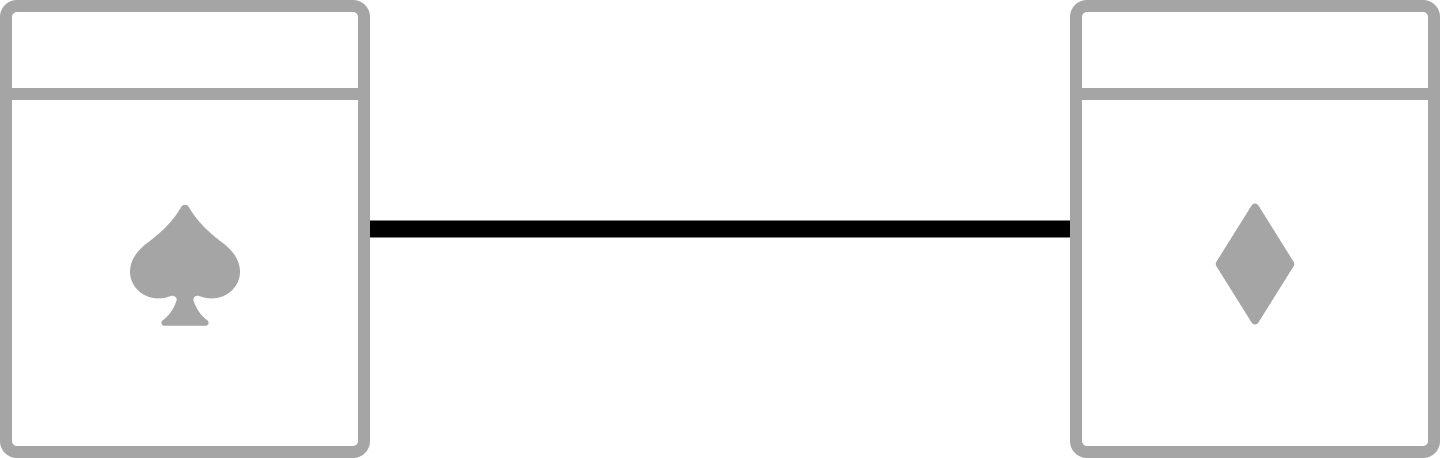
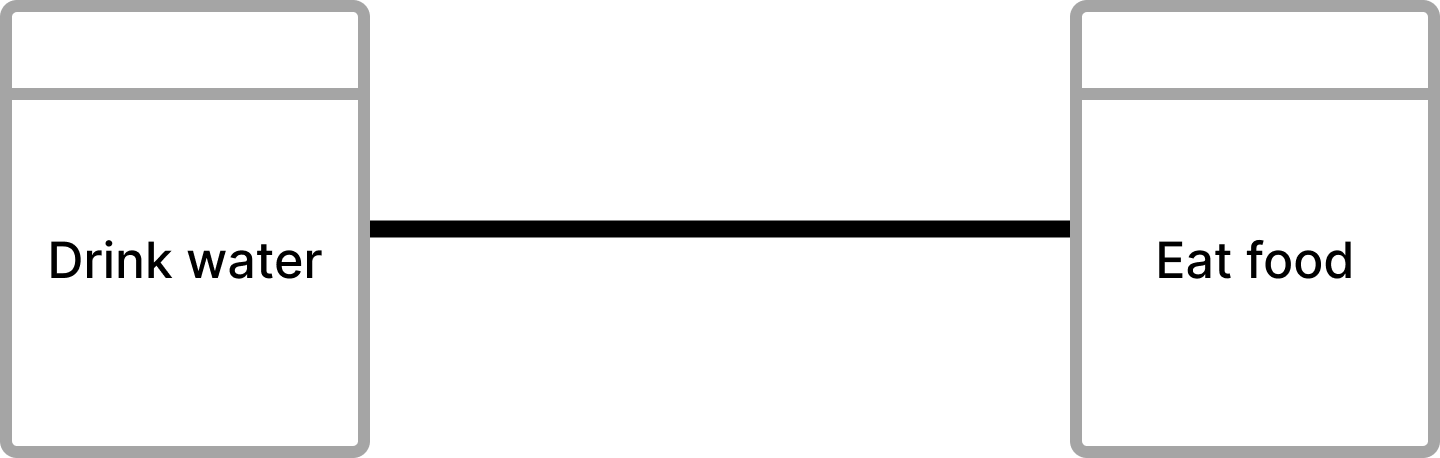
Update

Changed region(s): [[0.0312, 0.4585, 0.2188, 0.7336], [0.7812, 0.4585, 0.9375, 0.7031]]

diff --git a/data.js b/data.js
@@ -1,33 +1,67 @@
+// export var images = {
+// 	1: {
+// 		"image": "1_Response.png"
+// 	},
+// 	2: {
+// 		"image": "1_Condition.png"
+// 	},
+// 	3: {
+// 		"image": "1_Milestone.png"
+// 	},
+// 	4: {
+// 		"image": "1_Exclude.png"
+// 	},
+// 	5: {
+// 		"image": "1_Include.png"
+// 	},
+// 	6: {
+// 		"image": "2_Response.png"
+// 	},
+// 	7: {
+// 		"image": "2_Condition.png"
+// 	},
+// 	8: {
+// 		"image": "2_Milestone.png"
+// 	},
+// 	9: {
+// 		"image": "2_Exclude.png"
+// 	},
+// 	10: {
+// 		"image": "2_Include.png"
+// 	},
+
+// }
+
 export var images = {
 	1: {
-		"image": "1_Response.png"
+		"image": "test_include.png"
 	},
 	2: {
-		"image": "1_Condition.png"
+		"image": "test_exclude.png"
 	},
 	3: {
-		"image": "1_Milestone.png"
+		"image": "test_condition.png"
 	},
 	4: {
-		"image": "1_Exclude.png"
+		"image": "test_milestone.png"
 	},
 	5: {
-		"image": "1_Include.png"
+		"image": "test_response.png"
 	},
 	6: {
-		"image": "2_Response.png"
+		"image": "test_include.png"
 	},
 	7: {
-		"image": "2_Condition.png"
+		"image": "test_exclude.png"
 	},
 	8: {
-		"image": "2_Milestone.png"
+		"image": "test_condition.png"
 	},
 	9: {
-		"image": "2_Exclude.png"
+		"image": "test_milestone.png"
 	},
 	10: {
-		"image": "2_Include.png"
+		"image": "test_response.png"
 	},
 
 }
@@ -36,11 +70,11 @@ var imagesIndex = Object.keys(images);
 export var shuffledImages = imagesIndex.sort((a, b) => 0.5 - Math.random());
 
 export var answers = {
-	1: "At first, you decide to cook a dish without using oil; i.e., you decide to <b><u>exclude</u></b> using oil.",
-	2: "You <b><u>need</u></b> to prepare the ingredients <b><u>before</u></b> cooking the dish.",
-	3: "Once you have prepared the ingredients, cooking the dish becomes <b><u>a goal </u></b>that you <b><u>must eventually</u></b> do.",
-	4: "The pan you are using is an old pan, and you decide to use oil after all; i.e., you decide to <b><u>include</u></b> using oil.",
-	5: "If another person is using the stove then that is <b><u>a goal</u></b> that <b><u>must</u></b> be done before you can start cooking.",
+	1: "If you \"Draw card\" then you <b><u>cannot</u></b> \"Eat cake\".",
+	2: "In order to \"Eat cake\" you <b><u>need</u></b> to \"Draw card\" at least once",
+	3: "If you \"Draw card\" then you are able to \"Eat cake\"; i.e., if you were not able to \"Eat cake\" before and \"Draw card\", then you <b><u>can</u></b> \"Eat cake\" now.",
+	4: "If you \"Draw card\" you <b><u>need</u></b> to at some point \"Eat cake\"; i.e., \"Eat cake\" is now <b><u>required</u></b>",
+	5: "You can \"Eat cake\" <b><u>unless</u></b> \"Draw card\" is required. If \"Draw card\" is required, then in order to \"Eat cake\" you need to \"Draw card\".",
 	6: "No description fits"
 }
 
@@ -62,38 +96,44 @@ export var pages = {
 	// },
 	"dcr": {
 		"title": "Dynamic Condition Response (DCR)",
-		"text": "There are two types of nodes in DCR grpahs:<ul><li>An <b><i>event</i></b>, which is visualized by a rectangle, represents something that can happen.</li><li>A <b><i>relation</i></b> represents a relationship between two events. The relations in DCR are like constraints that you can apply to the events. </li></ul> In the image below, the <b><i>events</i></b> are indicated as rectangles with the symbols of a spade and a diamond. The symbols do not have any meaning, but signify that the two events are different from each other. The <b><i>relation</i></b> is indicated by the continuous connection between the two events. ",
-		"text_image": "Following is an example of the use of DCR relations.",
+		"text": "There are two types of nodes in DCR grpahs:<ul><li>An <b><i>event</i></b>, which is visualized by a rectangle, represents something that can happen.</li><li>A <b><i>relation</i></b> represents a relationship between two events. The relations in DCR are like constraints that you can apply to the events. </li></ul> In the image example below, the <b><i>events</i></b> are indicated as rectangles, where one event represents \"Drink water\" and the other event represents \"Eat food\". The <b><i>relation</i></b> is indicated by the continuous connection between the two events.",
+
+		"text_pre_markings": "An event can be in a state. The default state of an event is <i>not executed</i>, <i>not pending</i>, and <i>included</i> (see figure below). ",
+
+		"text_markings": "<b>Executed event</b>: An executed event is marked with a green check mark and indicates that the event has happened.<br> E.g. If the event is \"Drink water\", then by adding the green check mark, one has indicated that \"Drink water\" has happened. <br><br> <b>Excluded event</b>: An excluded event is marked with a dashed outline and indicates that the event cannot be executed.<br>E.g. If the event is \"Drink water\", then by having the dashed outline, one has indicated that \"Drink water\" cannot happen.<br><br> <b>Pending event</b>: A pending event is marked with a blue exclamation mark and indicates that the event must eventually happen and is therefore now required.<br>E.g. If the event is \"Drink water\", then by adding the blue exclamation mark, one has indicated that \"Drink water\" must eventually happen.", 
+
+		"text_next": "Following is an example of the use of DCR relations.",
 		"button": "CONTINUE"
 	},
 	"example": {
 		"title": "EXAMPLE",
-		"text": "Imagine you are getting ready to cook dinner. These are the 5 constraints you are applying.<br><br><br>" ,
+		"text": "In the following you will be presented 5 descriptions. The descriptions explains a type of relation between two events: \"Draw card\" and \"Eat cake\".<br><br><br>" ,
 
-		"text_exclude": "<hr>At first, you decide to cook a dish without using oil; i.e., you decide to <b><u>exclude</u></b> using oil.",
+		"text_exclude": "<hr>If you \"Draw card\" then you <b><u>cannot</u></b> \"Eat cake\".",
 		
-		"text_condition": "<hr>Before cooking the dish, you need to prepare the ingredients; i.e., you <b><u>need</u></b> to prepare the ingredients <b><u>before</u></b> cooking the dish.",
+		"text_condition": "<hr>In order to \"Eat cake\" you <b><u>need</u></b> to \"Draw card\" at least once",
 
-		"text_response": "<hr>Once you have prepared the ingredients, cooking the dish becomes <b><u>a goal </u></b>that you <b><u>must eventually</u></b> do.",
+		"text_response": "<hr>If you \"Draw card\" you <b><u>need</u></b> to at some point \"Eat cake\"; i.e., \"Eat cake\" is now <b><u>required</u></b>",
 
-		"text_include": "<hr>The pan you are using is an old pan, and you decide to use oil after all; i.e., you decide to <b><u>include</u></b> using oil.",
+		"text_include": "<hr>If you \"Draw card\" then you are able to \"Eat cake\"; i.e., if you were not able to \"Eat cake\" before and \"Draw card\", then you <b><u>can</u></b> \"Eat cake\" now.",
 
-		"text_milestone": "<hr>For cooking the dish, you can always use the stove unless someone else is using it, then you must wait until the they are done using the it; i.e., if another person is using the stove then that is <b><u>a goal</u></b> that <b><u>must</u></b> be done before you can start cooking.<hr>",
+		"text_milestone": "<hr>You can \"Eat cake\" <b><u>unless</u></b> \"Draw card\" is required. If \"Draw card\" is required, then in order to \"Eat cake\" you need to \"Draw card\".<hr>",
 		"text_next": "<br><br> Following is the instructions for the survey.",
 		"button": "CONTINUE"
 	},
 	"instructions":{
 		"title": "INSTRUCTIONS",
-		"text":"In a moment, you will be shown an image of a relation between two events (like the image above). Below the image, you will be shown 6 different descriptions similar to the ones in the example. Your task is to choose the description that you consider most accurately describes the relation shown in the image. If you consider that no description fits, then choose \"No description fits\". You may choose one description for multiple relations.<br><br>The descriptions are expressed in terms of concrete situations, but try to think of them in a more general sense.",
+		// "text":"In a moment, you will be shown an image of a relation between two events (like the image above). Below the image, you will be shown 6 different descriptions similar to the ones in the example. Your task is to choose the description that you consider most accurately describes the relation shown in the image. If you consider that no description fits, then choose \"No description fits\". You may choose one description for multiple relations.<br><br>The descriptions are expressed in terms of concrete situations, but try to think of them in a more general sense.",
+		"text":"In a moment, you will be shown an image of one type of relation an event and three other events. The three other events may have markings (like the image above).  Below the image, you will be shown 6 different descriptions similar to the ones in the example. Each image will have a highlighted event (red) which is the event that is refered to in the descriptions. Your task is to choose the description that you consider most accurately describes the relation shown in the image. If you consider that no description fits, then choose \"No description fits\". You may choose one description for multiple relations.<br><br>The descriptions are expressed in terms of concrete situations, but try to think of them in a more general sense.",
 		"button": "CONTINUE"
 	},
 	"instructions2":{
-		"text":"<b>Please, interact with other people during this survey. <br><br> Try to answer each question independently of the previous question.</b>",
+		"text":"<b>Please, do not interact with other people during this survey. <br><br> Try to answer each question independently of the previous question.</b>",
 		"button": "START"
 	},
 	"questions":{
-		"text_task":"Imagine you are getting ready to cook dinner.<br>Which of the following descriptions most accurately describes the relation in the image?",
-		"tooltip":"\"Events\": Something that can happen (The two rounded squares). <br> <br> \"Relation\": The relationship and connection between the two events.",
+		"text_task":"Which of the following descriptions most immediately and accurately describes the symbol for the relation in the image?<br><i>(\"Draw card\" is a general term used to generalize one of the three leftmost events)</i>",
+		"tooltip":"\"Events\": Something that can happen (The two rectangles). <br> <br> \"Relation\": The relationship and connection between the two events.",
 		"button": "Next"
 	},
 	"demographics":{

diff --git a/introduction.js b/introduction.js
@@ -42,8 +42,20 @@ export function displayDCR(){
     img.classList.add("question_image_example");
     container.appendChild(img);
 
-    let paraImage = general.createParagraph(data.pages.dcr.text_image);
-    container.appendChild(paraImage);
+    // Markings
+    let paraPreMarkings = general.createParagraph(data.pages.dcr.text_pre_markings);
+    container.appendChild(paraPreMarkings);
+
+    let imgMarkings = document.createElement("img");
+    imgMarkings.src = "images/Markings.png";
+    imgMarkings.classList.add("question_image_example");
+    container.appendChild(imgMarkings);
+
+    let paraMarkings = general.createParagraph(data.pages.dcr.text_markings);
+    container.appendChild(paraMarkings);
+
+    let paraNext = general.createParagraph(data.pages.dcr.text_next);
+    container.appendChild(paraNext);
 
     let btn = general.createButton(data.pages.dcr.button, function() {
         displayInstructionsExample();
@@ -58,56 +70,27 @@ export function displayInstructionsExample(){
 
     let para = general.createParagraph(data.pages.example.text);
     container.appendChild(para);
+
+    //Image
+    let img = document.createElement("img");
+    img.src = "images/example2.png";
+    img.classList.add("question_image_example");
+    container.appendChild(img);
+
     let para_exclude = general.createParagraph(data.pages.example.text_exclude);
     container.appendChild(para_exclude);
-    // //Image
-    // let img_exclude = document.createElement("img");
-    // img_exclude.src = "images/Instructions/exclude.png";
-    // img_exclude.classList.add("instructions_image");
-    // container.appendChild(img_exclude);
 
     let para_condition = general.createParagraph(data.pages.example.text_condition);
     container.appendChild(para_condition);
-    // //Image
-    // let img_condition = document.createElement("img");
-    // img_condition.src = "images/Instructions/condition.png";
-    // img_condition.classList.add("instructions_image");
-    // container.appendChild(img_condition);
-
-
-    let para_response = general.createParagraph(data.pages.example.text_response);
-    container.appendChild(para_response);
-    // //Image
-    // let img_response = document.createElement("img");
-    // img_response.src = "images/Instructions/response.png";
-    // img_response.classList.add("instructions_image");
-    // container.appendChild(img_response);
 
     let para_include = general.createParagraph(data.pages.example.text_include);
     container.appendChild(para_include);
-    // //Image
-    // let img_include = document.createElement("img");
-    // img_include.src = "images/Instructions/include.png";
-    // img_include.classList.add("instructions_image");
-    // container.appendChild(img_include);
+
+    let para_response = general.createParagraph(data.pages.example.text_response);
+    container.appendChild(para_response);
 
     let para_milestone = general.createParagraph(data.pages.example.text_milestone);
     container.appendChild(para_milestone);
-    
-    // //Image
-    // let img_milestone = document.createElement("img");
-    // img_milestone.src = "images/Instructions/milestone.png";
-    // img_milestone.classList.add("instructions_image");
-    // container.appendChild(img_milestone);
-
-    // //Image
-    // let img = document.createElement("img");
-    // img.src = "images/example.png";
-    // img.classList.add("question_image_example");
-    // container.appendChild(img);
-
-    // let paraEvent = general.createParagraph(data.pages.instructions.text_events);
-    // container.appendChild(paraEvent);
 
     let para_next = general.createParagraph(data.pages.example.text_next);
     container.appendChild(para_next);
@@ -125,7 +108,7 @@ export function displayInstructions(){
 
     //Image
     let img = document.createElement("img");
-    img.src = "images/example.png";
+    img.src = "images/example3.png";
     img.classList.add("question_image_example");
     container.appendChild(img);
 

diff --git a/questions.js b/questions.js
@@ -80,6 +80,12 @@ export function displayQuestion(index){
     task_container.appendChild(tooltip_badge);
     container.appendChild(task_container);
 
+    let textNote = general.createParagraph(data.pages.questions.text_note);
+    textNote.classList.add("pcenter");
+    textNote.classList.add("p_inline_block");
+    let taskNote_container = document.createElement("div");
+    task_container.appendChild(taskNote_container);
+
     //Next button
     let btn = general.createButton(data.pages.questions.button, function() {
         // if (index == 1) {

diff --git a/app.js b/app.js
@@ -67,3 +67,14 @@ var container = document.getElementById("container");
 //        });
 //    }
 //}
+/*
+Question page
+- Task question should reflect the definition of semantic transparency.
+
+Which of the following descriptions most immediately and accurately describes the symbol for the relation in the image?
+
+- Highlight keywords in report (Definition and task question)
+
+
+
+*/

diff --git a/style.css b/style.css
@@ -253,15 +253,17 @@ button {
 
 
 .question_image_example {
-    width: 60%;
+    width: 55%;
     object-fit: contain;
     margin: 0.5rem;
 }
 
 
 .question_image {
+    /* width: 70%;
+    height: 16rem; */
     width: 70%;
-    height: 16rem;
+    height: 24rem;
     object-fit: contain;
     margin-bottom: 30px;
 }
